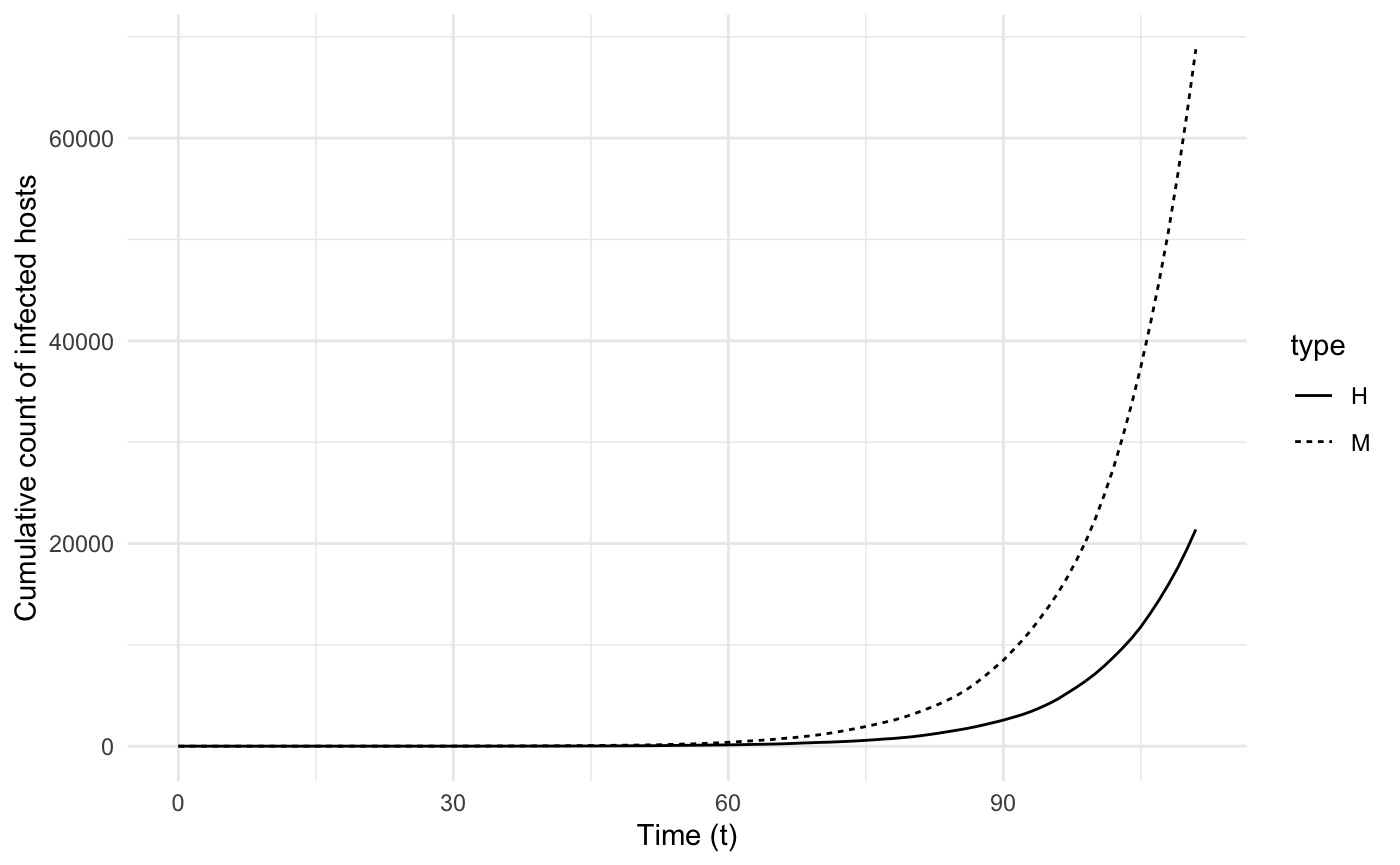
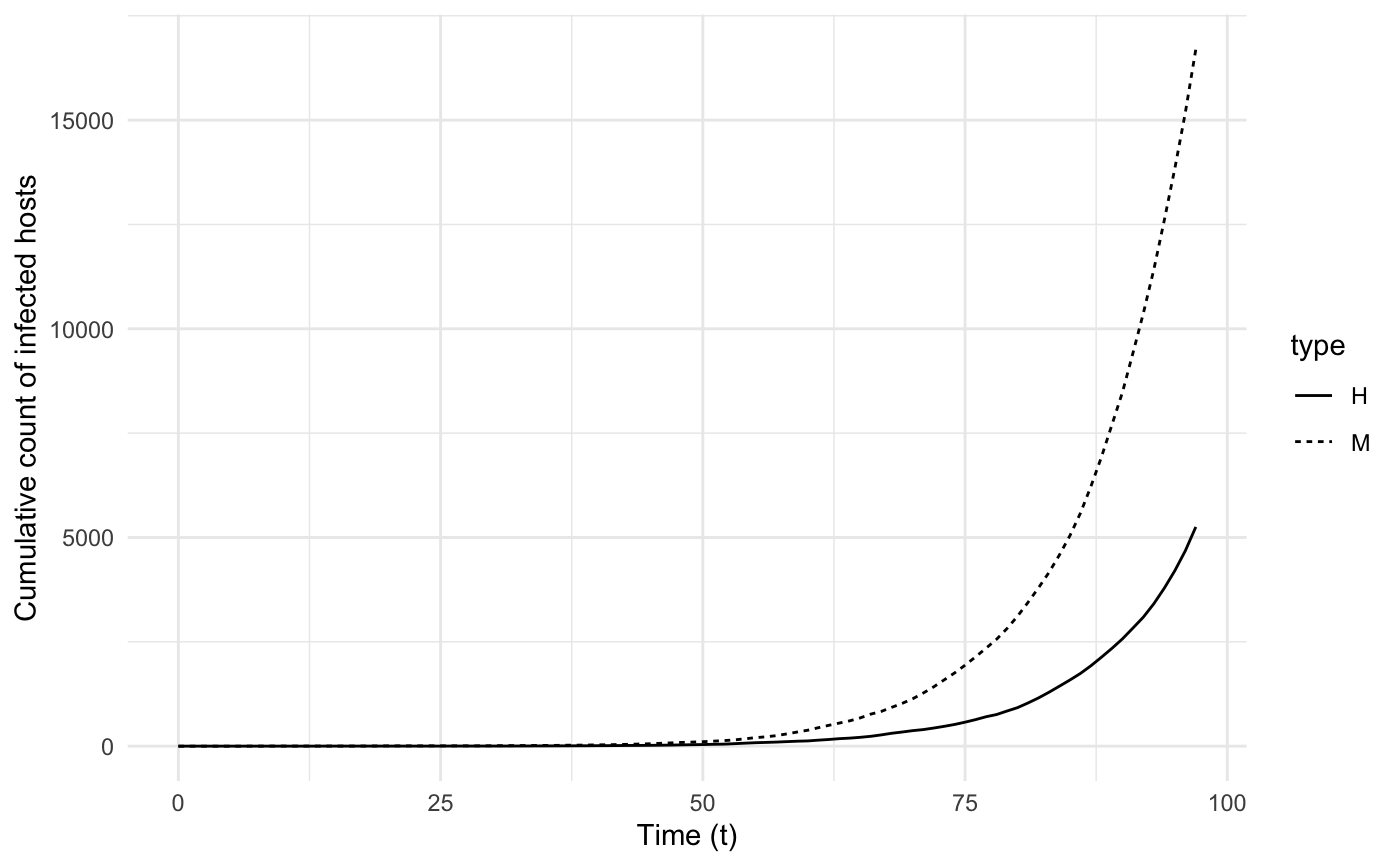
update dengue example

diff --git a/docs/articles/examples/dengue.html b/docs/articles/examples/dengue.html
@@ -178,7 +178,7 @@
       <h1>Spread of a dengue-like virus in a discrete space</h1>
                         <h4 class="author">Sebastian Lequime</h4>
             
-            <h4 class="date">2019-09-18</h4>
+            <h4 class="date">2019-09-19</h4>
       
       <small class="dont-index">Source: <a href="https://github.com/slequime/nosoi/blob/master/vignettes/examples/dengue.Rmd"><code>vignettes/examples/dengue.Rmd</code></a></small>
       <div class="hidden name"><code>dengue.Rmd</code></div>
@@ -345,35 +345,37 @@
 <div class="sourceCode" id="cb6"><pre class="sourceCode r"><code class="sourceCode r"><a class="sourceLine" id="cb6-1" data-line-number="1">airports &lt;-<span class="st"> </span><span class="kw">read_csv</span>(<span class="st">"~/Dropbox/C-Leuven Projects/Nosoi/Nosoi-Rpackage/Dengue Data/airports.dat"</span>, <span class="dt">col_names =</span> <span class="ot">FALSE</span>)</a>
 <a class="sourceLine" id="cb6-2" data-line-number="2"><span class="kw"><a href="https://rdrr.io/r/base/colnames.html">colnames</a></span>(airports)=<span class="kw"><a href="https://rdrr.io/r/base/c.html">c</a></span>(<span class="st">"AirportID"</span>,<span class="st">"Name"</span>, <span class="st">"City"</span>, <span class="st">"Country"</span>, <span class="st">"IATA"</span>, <span class="st">"ICAO"</span>, <span class="st">"Latitude"</span>, <span class="st">"Longitude"</span>, <span class="st">"Altitude"</span>, <span class="st">"Timezone"</span>,    <span class="st">"DST"</span>, <span class="st">"Tz"</span>, <span class="st">"Type"</span>, <span class="st">"Source"</span>)</a>
 <a class="sourceLine" id="cb6-3" data-line-number="3"></a>
-<a class="sourceLine" id="cb6-4" data-line-number="4"><span class="co"># AirportID: Unique OpenFlights identifier for this airport.</span></a>
-<a class="sourceLine" id="cb6-5" data-line-number="5"><span class="co"># Name: Name of airport. May or may not contain the City name.</span></a>
-<a class="sourceLine" id="cb6-6" data-line-number="6"><span class="co"># City: Main city served by airport. May be spelled differently from Name.</span></a>
-<a class="sourceLine" id="cb6-7" data-line-number="7"><span class="co"># Country: Country or territory where airport is located. See countries.dat to cross-reference to ISO 3166-1 codes.</span></a>
-<a class="sourceLine" id="cb6-8" data-line-number="8"><span class="co"># IATA: 3-letter IATA code. Null if not assigned/unknown.</span></a>
-<a class="sourceLine" id="cb6-9" data-line-number="9"><span class="co"># ICAO: 4-letter ICAO code. Null if not assigned.</span></a>
-<a class="sourceLine" id="cb6-10" data-line-number="10"><span class="co"># Latitude: Decimal degrees, usually to six significant digits. Negative is South, positive is North.</span></a>
-<a class="sourceLine" id="cb6-11" data-line-number="11"><span class="co"># Longitude: Decimal degrees, usually to six significant digits. Negative is West, positive is East.</span></a>
-<a class="sourceLine" id="cb6-12" data-line-number="12"><span class="co"># Altitude: In feet.</span></a>
-<a class="sourceLine" id="cb6-13" data-line-number="13"><span class="co"># Timezone: Hours offset from UTC. Fractional hours are expressed as decimals, eg. India is 5.5.</span></a>
-<a class="sourceLine" id="cb6-14" data-line-number="14"><span class="co"># DST:  Daylight savings time. One of E (Europe), A (US/Canada), S (South America), O (Australia), Z (New Zealand), N (None) or U (Unknown). See also: Help: Time</span></a>
-<a class="sourceLine" id="cb6-15" data-line-number="15"><span class="co"># Tz database time zone:    Timezone in "tz" (Olson) format, eg. "America/Los_Angeles".</span></a>
-<a class="sourceLine" id="cb6-16" data-line-number="16"><span class="co"># Type:     Type of the airport. Value "airport" for air terminals, "station" for train stations, "port" for ferry terminals and "unknown" if not known. In airports.csv, only type=airport is included.</span></a>
-<a class="sourceLine" id="cb6-17" data-line-number="17"></a>
-<a class="sourceLine" id="cb6-18" data-line-number="18"><span class="co">#This dataframe contains the 3-letter code for each country</span></a>
-<a class="sourceLine" id="cb6-19" data-line-number="19">country_code &lt;-<span class="st"> </span><span class="kw">read_delim</span>(<span class="st">"country_code.csv"</span>, <span class="st">";"</span>, <span class="dt">escape_double =</span> <span class="ot">FALSE</span>, <span class="dt">trim_ws =</span> <span class="ot">TRUE</span>)</a>
-<a class="sourceLine" id="cb6-20" data-line-number="20"></a>
-<a class="sourceLine" id="cb6-21" data-line-number="21"><span class="co">#Merging airports and country_code dataframe</span></a>
-<a class="sourceLine" id="cb6-22" data-line-number="22">airports2 =<span class="st"> </span>dplyr<span class="op">::</span><span class="kw"><a href="https://dplyr.tidyverse.org/reference/join.html">left_join</a></span>(airports, country_code)</a>
-<a class="sourceLine" id="cb6-23" data-line-number="23"></a>
-<a class="sourceLine" id="cb6-24" data-line-number="24"><span class="co">#subsetting airports from the study site</span></a>
-<a class="sourceLine" id="cb6-25" data-line-number="25">airports2.sub  =<span class="kw"><a href="https://rdrr.io/pkg/raster/man/subset.html">subset</a></span>(airports2, Code3 <span class="op">%in%</span><span class="st"> </span>SE.Asia <span class="op">&amp;</span><span class="st"> </span>(Latitude <span class="op">&gt;=</span><span class="st"> </span><span class="dv">5</span> <span class="op">&amp;</span><span class="st"> </span>Latitude <span class="op">&lt;=</span><span class="st"> </span><span class="dv">30</span>) <span class="op">&amp;</span><span class="st"> </span>(Longitude <span class="op">&gt;=</span><span class="st"> </span><span class="dv">90</span> <span class="op">&amp;</span><span class="st"> </span>Longitude <span class="op">&lt;=</span><span class="st"> </span><span class="dv">125</span>))</a>
-<a class="sourceLine" id="cb6-26" data-line-number="26"></a>
-<a class="sourceLine" id="cb6-27" data-line-number="27"><span class="co">#worldmap</span></a>
-<a class="sourceLine" id="cb6-28" data-line-number="28">worldmap &lt;-<span class="st"> </span>ggplot2<span class="op">::</span><span class="kw"><a href="https://ggplot2.tidyverse.org/reference/borders.html">borders</a></span>(<span class="st">"world"</span>, <span class="dt">colour=</span><span class="st">"gray50"</span>, <span class="dt">fill=</span><span class="st">"#efede1"</span>)</a>
-<a class="sourceLine" id="cb6-29" data-line-number="29"></a>
-<a class="sourceLine" id="cb6-30" data-line-number="30"><span class="kw">ggplot</span>() <span class="op">+</span><span class="st"> </span>worldmap <span class="op">+</span><span class="st"> </span><span class="kw">coord_cartesian</span>(<span class="dt">xlim=</span><span class="kw"><a href="https://rdrr.io/r/base/c.html">c</a></span>(<span class="dv">90</span>, <span class="dv">125</span>),<span class="dt">ylim=</span><span class="kw"><a href="https://rdrr.io/r/base/c.html">c</a></span>(<span class="dv">5</span>, <span class="dv">30</span>)) <span class="op">+</span><span class="st"> </span></a>
-<a class="sourceLine" id="cb6-31" data-line-number="31"><span class="st">  </span><span class="kw">geom_point</span>(<span class="dt">data=</span>airports2.sub, <span class="kw">aes</span>(<span class="dt">x=</span>Longitude, <span class="dt">y=</span>Latitude, <span class="dt">color=</span>Country)) <span class="op">+</span><span class="st"> </span><span class="kw">scale_color_discrete</span>(<span class="dt">guide=</span><span class="ot">FALSE</span>) <span class="op">+</span><span class="st"> </span></a>
-<a class="sourceLine" id="cb6-32" data-line-number="32"><span class="st">  </span><span class="kw">theme_minimal</span>() <span class="op">+</span><span class="st"> </span><span class="kw">labs</span>(<span class="dt">x=</span><span class="st">"longitude"</span>,<span class="dt">y=</span><span class="st">"latitude"</span>)</a></code></pre></div>
+<a class="sourceLine" id="cb6-4" data-line-number="4">SE.Asia &lt;-<span class="st"> </span><span class="kw"><a href="https://rdrr.io/r/base/c.html">c</a></span>(<span class="st">"CHN"</span>,<span class="st">"KHM"</span>,<span class="st">"LAO"</span>,<span class="st">"THA"</span>,<span class="st">"VNM"</span>)</a>
+<a class="sourceLine" id="cb6-5" data-line-number="5"></a>
+<a class="sourceLine" id="cb6-6" data-line-number="6"><span class="co"># AirportID: Unique OpenFlights identifier for this airport.</span></a>
+<a class="sourceLine" id="cb6-7" data-line-number="7"><span class="co"># Name: Name of airport. May or may not contain the City name.</span></a>
+<a class="sourceLine" id="cb6-8" data-line-number="8"><span class="co"># City: Main city served by airport. May be spelled differently from Name.</span></a>
+<a class="sourceLine" id="cb6-9" data-line-number="9"><span class="co"># Country: Country or territory where airport is located. See countries.dat to cross-reference to ISO 3166-1 codes.</span></a>
+<a class="sourceLine" id="cb6-10" data-line-number="10"><span class="co"># IATA: 3-letter IATA code. Null if not assigned/unknown.</span></a>
+<a class="sourceLine" id="cb6-11" data-line-number="11"><span class="co"># ICAO: 4-letter ICAO code. Null if not assigned.</span></a>
+<a class="sourceLine" id="cb6-12" data-line-number="12"><span class="co"># Latitude: Decimal degrees, usually to six significant digits. Negative is South, positive is North.</span></a>
+<a class="sourceLine" id="cb6-13" data-line-number="13"><span class="co"># Longitude: Decimal degrees, usually to six significant digits. Negative is West, positive is East.</span></a>
+<a class="sourceLine" id="cb6-14" data-line-number="14"><span class="co"># Altitude: In feet.</span></a>
+<a class="sourceLine" id="cb6-15" data-line-number="15"><span class="co"># Timezone: Hours offset from UTC. Fractional hours are expressed as decimals, eg. India is 5.5.</span></a>
+<a class="sourceLine" id="cb6-16" data-line-number="16"><span class="co"># DST:  Daylight savings time. One of E (Europe), A (US/Canada), S (South America), O (Australia), Z (New Zealand), N (None) or U (Unknown). See also: Help: Time</span></a>
+<a class="sourceLine" id="cb6-17" data-line-number="17"><span class="co"># Tz database time zone:    Timezone in "tz" (Olson) format, eg. "America/Los_Angeles".</span></a>
+<a class="sourceLine" id="cb6-18" data-line-number="18"><span class="co"># Type:     Type of the airport. Value "airport" for air terminals, "station" for train stations, "port" for ferry terminals and "unknown" if not known. In airports.csv, only type=airport is included.</span></a>
+<a class="sourceLine" id="cb6-19" data-line-number="19"></a>
+<a class="sourceLine" id="cb6-20" data-line-number="20"><span class="co">#This dataframe contains the 3-letter code for each country</span></a>
+<a class="sourceLine" id="cb6-21" data-line-number="21">country_code &lt;-<span class="st"> </span><span class="kw">read_delim</span>(<span class="st">"country_code.csv"</span>, <span class="st">";"</span>, <span class="dt">escape_double =</span> <span class="ot">FALSE</span>, <span class="dt">trim_ws =</span> <span class="ot">TRUE</span>)</a>
+<a class="sourceLine" id="cb6-22" data-line-number="22"></a>
+<a class="sourceLine" id="cb6-23" data-line-number="23"><span class="co">#Merging airports and country_code dataframe</span></a>
+<a class="sourceLine" id="cb6-24" data-line-number="24">airports2 =<span class="st"> </span>dplyr<span class="op">::</span><span class="kw"><a href="https://dplyr.tidyverse.org/reference/join.html">left_join</a></span>(airports, country_code)</a>
+<a class="sourceLine" id="cb6-25" data-line-number="25"></a>
+<a class="sourceLine" id="cb6-26" data-line-number="26"><span class="co">#subsetting airports from the study site</span></a>
+<a class="sourceLine" id="cb6-27" data-line-number="27">airports2.sub  =<span class="kw"><a href="https://rdrr.io/pkg/raster/man/subset.html">subset</a></span>(airports2, Code3 <span class="op">%in%</span><span class="st"> </span>SE.Asia <span class="op">&amp;</span><span class="st"> </span>(Latitude <span class="op">&gt;=</span><span class="st"> </span><span class="dv">5</span> <span class="op">&amp;</span><span class="st"> </span>Latitude <span class="op">&lt;=</span><span class="st"> </span><span class="dv">30</span>) <span class="op">&amp;</span><span class="st"> </span>(Longitude <span class="op">&gt;=</span><span class="st"> </span><span class="dv">90</span> <span class="op">&amp;</span><span class="st"> </span>Longitude <span class="op">&lt;=</span><span class="st"> </span><span class="dv">125</span>))</a>
+<a class="sourceLine" id="cb6-28" data-line-number="28"></a>
+<a class="sourceLine" id="cb6-29" data-line-number="29"><span class="co">#worldmap</span></a>
+<a class="sourceLine" id="cb6-30" data-line-number="30">worldmap &lt;-<span class="st"> </span>ggplot2<span class="op">::</span><span class="kw"><a href="https://ggplot2.tidyverse.org/reference/borders.html">borders</a></span>(<span class="st">"world"</span>, <span class="dt">colour=</span><span class="st">"gray50"</span>, <span class="dt">fill=</span><span class="st">"#efede1"</span>)</a>
+<a class="sourceLine" id="cb6-31" data-line-number="31"></a>
+<a class="sourceLine" id="cb6-32" data-line-number="32"><span class="kw">ggplot</span>() <span class="op">+</span><span class="st"> </span>worldmap <span class="op">+</span><span class="st"> </span><span class="kw">coord_cartesian</span>(<span class="dt">xlim=</span><span class="kw"><a href="https://rdrr.io/r/base/c.html">c</a></span>(<span class="dv">90</span>, <span class="dv">125</span>),<span class="dt">ylim=</span><span class="kw"><a href="https://rdrr.io/r/base/c.html">c</a></span>(<span class="dv">5</span>, <span class="dv">30</span>)) <span class="op">+</span><span class="st"> </span></a>
+<a class="sourceLine" id="cb6-33" data-line-number="33"><span class="st">  </span><span class="kw">geom_point</span>(<span class="dt">data=</span>airports2.sub, <span class="kw">aes</span>(<span class="dt">x=</span>Longitude, <span class="dt">y=</span>Latitude, <span class="dt">color=</span>Country)) <span class="op">+</span><span class="st"> </span><span class="kw">scale_color_discrete</span>(<span class="dt">guide=</span><span class="ot">FALSE</span>) <span class="op">+</span><span class="st"> </span></a>
+<a class="sourceLine" id="cb6-34" data-line-number="34"><span class="st">  </span><span class="kw">theme_minimal</span>() <span class="op">+</span><span class="st"> </span><span class="kw">labs</span>(<span class="dt">x=</span><span class="st">"longitude"</span>,<span class="dt">y=</span><span class="st">"latitude"</span>)</a></code></pre></div>
 <p><img src="dengue_files/figure-html/air1-1.png" width="700"></p>
 <p>Then we extract the routes that link these airports together:</p>
 <div class="sourceCode" id="cb7"><pre class="sourceCode r"><code class="sourceCode r"><a class="sourceLine" id="cb7-1" data-line-number="1"><span class="kw"><a href="https://rdrr.io/r/base/library.html">library</a></span>(tidyverse)</a>
@@ -668,7 +670,7 @@
 <a class="sourceLine" id="cb25-81" data-line-number="81"><span class="kw"><a href="https://rdrr.io/r/base/Random.html">set.seed</a></span>(<span class="dv">60</span>)</a>
 <a class="sourceLine" id="cb25-82" data-line-number="82">test.nosoiA &lt;-<span class="st"> </span><span class="kw"><a href="../../reference/nosoiSim.html">nosoiSim</a></span>(<span class="dt">type=</span><span class="st">"dual"</span>, <span class="dt">popStructure=</span><span class="st">"discrete"</span>,</a>
 <a class="sourceLine" id="cb25-83" data-line-number="83">                        <span class="dt">length.sim=</span><span class="dv">365</span>, </a>
-<a class="sourceLine" id="cb25-84" data-line-number="84">                        <span class="dt">max.infected.A=</span><span class="dv">20000</span>,</a>
+<a class="sourceLine" id="cb25-84" data-line-number="84">                        <span class="dt">max.infected.A=</span><span class="dv">5000</span>,</a>
 <a class="sourceLine" id="cb25-85" data-line-number="85">                        <span class="dt">max.infected.B=</span><span class="dv">200000</span>,</a>
 <a class="sourceLine" id="cb25-86" data-line-number="86">                        <span class="dt">init.individuals.A=</span><span class="dv">1</span>,</a>
 <a class="sourceLine" id="cb25-87" data-line-number="87">                        <span class="dt">init.individuals.B=</span><span class="dv">0</span>,</a>
@@ -726,8 +728,8 @@
 ## Initializing ...</code></pre>
 <pre><code>##  running ...</code></pre>
 <pre><code>## done. 
-## The simulation has run for 110 units of time and a total of 21383 (A) and 68774 (B) hosts have been infected.</code></pre>
-<p>The simulation has run for 110 and has infected 2.138310^{4} humans and 6.877410^{4} mosquitoes. The simulation was stoped because it reached the infected human cap <code>max.infected.A</code>.</p>
+## The simulation has run for 96 units of time and a total of 5253 (A) and 16699 (B) hosts have been infected.</code></pre>
+<p>The simulation has run for 96 and has infected 5253 humans and 1.669910^{4} mosquitoes. The simulation was stoped because it reached the infected human cap <code>max.infected.A</code>.</p>
 </div>
 <div id="analyzing-the-results" class="section level1">
 <h1 class="hasAnchor">
@@ -793,7 +795,7 @@
 <a href="#epidemiological-analysis" class="anchor"></a>Epidemiological analysis</h2>
 <p>As interesting as the visualization might be, we can also explore a bit the epidemic parameters, for example the “real” <span class="math inline">\(R_0\)</span>, defined as the average number of cases one case generates, often estimated in epidemiological studies. For this we can use the following code:</p>
 <div class="sourceCode" id="cb30"><pre class="sourceCode r"><code class="sourceCode r"><a class="sourceLine" id="cb30-1" data-line-number="1">R0.sim &lt;-<span class="st"> </span><span class="kw"><a href="../../reference/getR0.html">getR0</a></span>(test.nosoiA)</a></code></pre></div>
-<p>Mean value for <span class="math inline">\(R_0\)</span> is 3.31, which is coherent with <span class="math inline">\(R_0\)</span> estimates for dengue (see for example <a href="https://apps.who.int/iris/handle/10665/170261">Nishiura 2006 <em>Dengue Bulletin</em></a>. Its distribution shows that most of the human hosts are responsible for the infection of a least one other human hosts:</p>
+<p>Mean value for <span class="math inline">\(R_0\)</span> is 3.23, which is coherent with <span class="math inline">\(R_0\)</span> estimates for dengue (see for example <a href="https://apps.who.int/iris/handle/10665/170261">Nishiura 2006 <em>Dengue Bulletin</em></a>. Its distribution shows that most of the human hosts are responsible for the infection of a least one other human hosts:</p>
 <p><img src="dengue_files/figure-html/generalEpi2-1.png" width="700"></p>
 <p>On the mosquito side, mean value for <span class="math inline">\(R_0\)</span> is 0.27 and the distribution shows that most of the mosquitoes, except a few, are actually dead-end hosts: <img src="dengue_files/figure-html/generalEpi3-1.png" width="700"></p>
 <p>The two following figures also give the epidemiological dynamics of the simulation:</p>
@@ -803,7 +805,7 @@
 <a class="sourceLine" id="cb31-4" data-line-number="4"></a>
 <a class="sourceLine" id="cb31-5" data-line-number="5"><span class="kw"><a href="https://ggplot2.tidyverse.org/reference/ggplot.html">ggplot</a></span>(<span class="dt">data=</span>cumulative.table, <span class="kw"><a href="https://ggplot2.tidyverse.org/reference/aes.html">aes</a></span>(<span class="dt">x=</span>t, <span class="dt">y=</span>Count,<span class="dt">linetype=</span>type)) <span class="op">+</span><span class="st"> </span><span class="kw"><a href="https://ggplot2.tidyverse.org/reference/geom_path.html">geom_line</a></span>() <span class="op">+</span><span class="st"> </span><span class="kw"><a href="https://ggplot2.tidyverse.org/reference/ggtheme.html">theme_minimal</a></span>() <span class="op">+</span><span class="st"> </span><span class="kw"><a href="https://ggplot2.tidyverse.org/reference/labs.html">labs</a></span>(<span class="dt">x=</span><span class="st">"Time (t)"</span>,<span class="dt">y=</span><span class="st">"Cumulative count of infected hosts"</span>)</a></code></pre></div>
 <p><img src="dengue_files/figure-html/figureDynamics1-1.png" width="700"></p>
-<div class="sourceCode" id="cb32"><pre class="sourceCode r"><code class="sourceCode r"><a class="sourceLine" id="cb32-1" data-line-number="1"><span class="kw"><a href="https://ggplot2.tidyverse.org/reference/ggplot.html">ggplot</a></span>(<span class="dt">data=</span>dynamics.table, <span class="kw"><a href="https://ggplot2.tidyverse.org/reference/aes.html">aes</a></span>(<span class="dt">x=</span>t, <span class="dt">y=</span>Count, <span class="dt">color=</span>state,<span class="dt">linetype=</span>type)) <span class="op">+</span><span class="st"> </span><span class="kw"><a href="https://ggplot2.tidyverse.org/reference/geom_path.html">geom_line</a></span>() <span class="op">+</span><span class="st"> </span><span class="kw"><a href="https://ggplot2.tidyverse.org/reference/ggtheme.html">theme_minimal</a></span>() <span class="op">+</span><span class="st"> </span><span class="kw"><a href="https://ggplot2.tidyverse.org/reference/labs.html">labs</a></span>(<span class="dt">x=</span><span class="st">"Time (t)"</span>,<span class="dt">y=</span><span class="st">"Number of active infected hosts"</span>)</a></code></pre></div>
+<div class="sourceCode" id="cb32"><pre class="sourceCode r"><code class="sourceCode r"><a class="sourceLine" id="cb32-1" data-line-number="1"><span class="kw"><a href="https://ggplot2.tidyverse.org/reference/ggplot.html">ggplot</a></span>(<span class="dt">data=</span>dynamics.table, <span class="kw"><a href="https://ggplot2.tidyverse.org/reference/aes.html">aes</a></span>(<span class="dt">x=</span>t, <span class="dt">y=</span><span class="kw"><a href="https://rdrr.io/r/base/Log.html">log10</a></span>(Count), <span class="dt">color=</span>state,<span class="dt">linetype=</span>type)) <span class="op">+</span><span class="st"> </span><span class="kw"><a href="https://ggplot2.tidyverse.org/reference/geom_path.html">geom_line</a></span>() <span class="op">+</span><span class="st"> </span><span class="kw"><a href="https://ggplot2.tidyverse.org/reference/ggtheme.html">theme_minimal</a></span>() <span class="op">+</span><span class="st"> </span><span class="kw"><a href="https://ggplot2.tidyverse.org/reference/labs.html">labs</a></span>(<span class="dt">x=</span><span class="st">"Time (t)"</span>,<span class="dt">y=</span><span class="st">"Number of active infected hosts</span><span class="ch">\n</span><span class="st">(log10 scale)"</span>)</a></code></pre></div>
 <p><img src="dengue_files/figure-html/figureDynamics2-1.png" width="700"></p>
 </div>
 <div id="transmission-chain" class="section level2">
@@ -812,27 +814,36 @@
 <p>The central transmission chain simulated by <code>nosoi</code> can also be visualized. For that, we generate the transmission tree as a phylogenetic tree-like object by using the <code>getTransmissionTree</code> function implemented in <code>nosoi</code>:</p>
 <div class="sourceCode" id="cb33"><pre class="sourceCode r"><code class="sourceCode r"><a class="sourceLine" id="cb33-1" data-line-number="1">test.nosoiA.tree &lt;-<span class="st"> </span><span class="kw"><a href="../../reference/getTransmissionTree.html">getTransmissionTree</a></span>(test.nosoiA)</a></code></pre></div>
 <p>This function gives you a <code>treedata</code> object that can be visualized as a phylogenetic-tree with the package :</p>
-<div class="sourceCode" id="cb34"><pre class="sourceCode r"><code class="sourceCode r"><a class="sourceLine" id="cb34-1" data-line-number="1"><span class="co">#Extracts data from the nosoiSim object:</span></a>
-<a class="sourceLine" id="cb34-2" data-line-number="2">test.table.hosts &lt;-<span class="st"> </span><span class="kw"><a href="../../reference/getTableHosts.html">getTableHosts</a></span>(test.nosoiA, <span class="dt">pop=</span><span class="st">"A"</span>)</a>
-<a class="sourceLine" id="cb34-3" data-line-number="3">test.nosoiA.tree &lt;-<span class="st"> </span><span class="kw"><a href="../../reference/getTransmissionTree.html">getTransmissionTree</a></span>(test.nosoiA, <span class="dt">pop=</span><span class="st">"A"</span>)</a>
-<a class="sourceLine" id="cb34-4" data-line-number="4"></a>
-<a class="sourceLine" id="cb34-5" data-line-number="5"><span class="co">#Sampling the names of individuals to be sampled:</span></a>
-<a class="sourceLine" id="cb34-6" data-line-number="6"><span class="kw"><a href="https://rdrr.io/r/base/Random.html">set.seed</a></span>(<span class="dv">5905950</span>)</a>
-<a class="sourceLine" id="cb34-7" data-line-number="7">sampled.hosts &lt;-<span class="st"> </span><span class="kw"><a href="https://rdrr.io/r/base/sample.html">sample</a></span>(<span class="kw"><a href="https://rdrr.io/pkg/raster/man/subset.html">subset</a></span>(test.table.hosts, active <span class="op">==</span><span class="st"> </span><span class="dv">0</span>)<span class="op">$</span>hosts.ID, <span class="dv">250</span>)</a>
-<a class="sourceLine" id="cb34-8" data-line-number="8"></a>
-<a class="sourceLine" id="cb34-9" data-line-number="9"><span class="co">#Subsampling:</span></a>
-<a class="sourceLine" id="cb34-10" data-line-number="10">test.nosoiA.tree.sampled.exiting &lt;-<span class="st"> </span><span class="kw"><a href="../../reference/sampleTransmissionTreeFromExiting.html">sampleTransmissionTreeFromExiting</a></span>(test.nosoiA.tree, sampled.hosts)</a></code></pre></div>
-<div class="sourceCode" id="cb35"><pre class="sourceCode r"><code class="sourceCode r"><a class="sourceLine" id="cb35-1" data-line-number="1"><span class="kw"><a href="https://rdrr.io/r/base/library.html">library</a></span>(ggtree)</a>
-<a class="sourceLine" id="cb35-2" data-line-number="2"><span class="kw"><a href="https://rdrr.io/pkg/ggtree/man/ggtree.html">ggtree</a></span>(test.nosoiA.tree, <span class="dt">color =</span> <span class="st">"gray30"</span>) <span class="op">+</span><span class="st"> </span><span class="kw"><a href="https://rdrr.io/pkg/ggtree/man/geom_nodepoint.html">geom_nodepoint</a></span>(<span class="dt">color =</span> <span class="st">"gray30"</span>) <span class="op">+</span><span class="st"> </span><span class="kw"><a href="https://rdrr.io/pkg/ggtree/man/geom_tippoint.html">geom_tippoint</a></span>(<span class="dt">color =</span> <span class="st">"gray30"</span>) <span class="op">+</span><span class="st"> </span><span class="co"># geom_tiplab(aes(label=host)) + </span></a>
-<a class="sourceLine" id="cb35-3" data-line-number="3"><span class="st">    </span><span class="kw"><a href="https://rdrr.io/pkg/ggtree/man/theme_tree2.html">theme_tree2</a></span>() <span class="op">+</span><span class="st"> </span><span class="kw"><a href="https://ggplot2.tidyverse.org/reference/labs.html">xlab</a></span>(<span class="st">"Time (t)"</span>) <span class="op">+</span><span class="st"> </span><span class="kw"><a href="https://rdrr.io/pkg/ggtree/man/reexports.html">theme</a></span>(<span class="dt">legend.position =</span> <span class="kw"><a href="https://rdrr.io/r/base/c.html">c</a></span>(<span class="dv">0</span>,<span class="fl">0.8</span>), </a>
-<a class="sourceLine" id="cb35-4" data-line-number="4">        <span class="dt">legend.title =</span> <span class="kw"><a href="https://ggplot2.tidyverse.org/reference/element.html">element_blank</a></span>(),</a>
-<a class="sourceLine" id="cb35-5" data-line-number="5">        <span class="dt">legend.key =</span> <span class="kw"><a href="https://ggplot2.tidyverse.org/reference/element.html">element_blank</a></span>())</a></code></pre></div>
+<div class="sourceCode" id="cb34"><pre class="sourceCode r"><code class="sourceCode r"><a class="sourceLine" id="cb34-1" data-line-number="1"><span class="kw"><a href="https://rdrr.io/r/base/library.html">library</a></span>(ggtree)</a>
+<a class="sourceLine" id="cb34-2" data-line-number="2"><span class="kw"><a href="https://rdrr.io/pkg/ggtree/man/ggtree.html">ggtree</a></span>(test.nosoiA.tree, <span class="dt">color =</span> <span class="st">"gray30"</span>) <span class="op">+</span><span class="st"> </span><span class="kw"><a href="https://rdrr.io/pkg/ggtree/man/geom_tippoint.html">geom_tippoint</a></span>(<span class="dt">color =</span> <span class="st">"gray30"</span>) <span class="op">+</span><span class="st"> </span><span class="co"># geom_tiplab(aes(label=host)) + </span></a>
+<a class="sourceLine" id="cb34-3" data-line-number="3"><span class="st">    </span><span class="kw"><a href="https://rdrr.io/pkg/ggtree/man/theme_tree2.html">theme_tree2</a></span>() <span class="op">+</span><span class="st"> </span><span class="kw"><a href="https://ggplot2.tidyverse.org/reference/labs.html">xlab</a></span>(<span class="st">"Time (t)"</span>) <span class="op">+</span><span class="st"> </span><span class="kw"><a href="https://rdrr.io/pkg/ggtree/man/reexports.html">theme</a></span>(<span class="dt">legend.position =</span> <span class="kw"><a href="https://rdrr.io/r/base/c.html">c</a></span>(<span class="dv">0</span>,<span class="fl">0.8</span>), </a>
+<a class="sourceLine" id="cb34-4" data-line-number="4">        <span class="dt">legend.title =</span> <span class="kw"><a href="https://ggplot2.tidyverse.org/reference/element.html">element_blank</a></span>(),</a>
+<a class="sourceLine" id="cb34-5" data-line-number="5">        <span class="dt">legend.key =</span> <span class="kw"><a href="https://ggplot2.tidyverse.org/reference/element.html">element_blank</a></span>())</a></code></pre></div>
+<p><img src="dengue_files/figure-html/treeC-1.png" width="700"></p>
+<p>This tree is a bit messy, considering the number of transmission events and the overall size of this epidemic. We can also sub-sample it randomly. We will select here 150 individuals sampled at the time of their exit (either death or recovery):</p>
+<div class="sourceCode" id="cb35"><pre class="sourceCode r"><code class="sourceCode r"><a class="sourceLine" id="cb35-1" data-line-number="1"><span class="co">#Extracts data from the nosoiSim object:</span></a>
+<a class="sourceLine" id="cb35-2" data-line-number="2">test.table.hosts &lt;-<span class="st"> </span><span class="kw"><a href="../../reference/getTableHosts.html">getTableHosts</a></span>(test.nosoiA, <span class="dt">pop=</span><span class="st">"A"</span>)</a>
+<a class="sourceLine" id="cb35-3" data-line-number="3"><span class="co"># test.nosoiA.tree &lt;- getTransmissionTree(test.nosoiA)</span></a>
+<a class="sourceLine" id="cb35-4" data-line-number="4"></a>
+<a class="sourceLine" id="cb35-5" data-line-number="5"><span class="co">#Sampling the names of individuals to be sampled:</span></a>
+<a class="sourceLine" id="cb35-6" data-line-number="6"><span class="kw"><a href="https://rdrr.io/r/base/Random.html">set.seed</a></span>(<span class="dv">5905950</span>)</a>
+<a class="sourceLine" id="cb35-7" data-line-number="7">sampled.hosts &lt;-<span class="st"> </span><span class="kw"><a href="https://rdrr.io/r/base/sample.html">sample</a></span>(<span class="kw"><a href="https://rdrr.io/pkg/raster/man/subset.html">subset</a></span>(test.table.hosts, active <span class="op">==</span><span class="st"> </span><span class="dv">0</span>)<span class="op">$</span>hosts.ID, <span class="dv">150</span>)</a>
+<a class="sourceLine" id="cb35-8" data-line-number="8"></a>
+<a class="sourceLine" id="cb35-9" data-line-number="9"><span class="co">#Subsampling:</span></a>
+<a class="sourceLine" id="cb35-10" data-line-number="10">test.nosoiA.tree.sampled.exiting &lt;-<span class="st"> </span><span class="kw"><a href="../../reference/sampleTransmissionTreeFromExiting.html">sampleTransmissionTreeFromExiting</a></span>(test.nosoiA.tree, sampled.hosts)</a></code></pre></div>
+<p>This new tree can be also plotted as before, with colors representing the state (i.e. country) of each tip and node:</p>
+<div class="sourceCode" id="cb36"><pre class="sourceCode r"><code class="sourceCode r"><a class="sourceLine" id="cb36-1" data-line-number="1"><span class="kw"><a href="https://rdrr.io/r/base/library.html">library</a></span>(ggtree)</a>
+<a class="sourceLine" id="cb36-2" data-line-number="2"><span class="kw"><a href="https://rdrr.io/pkg/ggtree/man/ggtree.html">ggtree</a></span>(test.nosoiA.tree.sampled.exiting, <span class="dt">color =</span> <span class="st">"gray30"</span>) <span class="op">+</span><span class="st"> </span><span class="kw"><a href="https://rdrr.io/pkg/ggtree/man/geom_nodepoint.html">geom_nodepoint</a></span>(<span class="kw"><a href="https://rdrr.io/pkg/ggtree/man/reexports.html">aes</a></span>(<span class="dt">color=</span>state)) <span class="op">+</span><span class="st"> </span><span class="kw"><a href="https://rdrr.io/pkg/ggtree/man/geom_tippoint.html">geom_tippoint</a></span>(<span class="kw"><a href="https://rdrr.io/pkg/ggtree/man/reexports.html">aes</a></span>(<span class="dt">color=</span>state)) <span class="op">+</span><span class="st"> </span><span class="co"># geom_tiplab(aes(label=host)) + </span></a>
+<a class="sourceLine" id="cb36-3" data-line-number="3"><span class="st">    </span><span class="kw"><a href="https://rdrr.io/pkg/ggtree/man/theme_tree2.html">theme_tree2</a></span>() <span class="op">+</span><span class="st"> </span><span class="kw"><a href="https://ggplot2.tidyverse.org/reference/labs.html">xlab</a></span>(<span class="st">"Time (t)"</span>) <span class="op">+</span><span class="st"> </span><span class="kw"><a href="https://rdrr.io/pkg/ggtree/man/reexports.html">theme</a></span>(<span class="dt">legend.position =</span> <span class="kw"><a href="https://rdrr.io/r/base/c.html">c</a></span>(<span class="fl">0.05</span>,<span class="fl">0.8</span>), </a>
+<a class="sourceLine" id="cb36-4" data-line-number="4">        <span class="dt">legend.title =</span> <span class="kw"><a href="https://ggplot2.tidyverse.org/reference/element.html">element_blank</a></span>(),</a>
+<a class="sourceLine" id="cb36-5" data-line-number="5">        <span class="dt">legend.key =</span> <span class="kw"><a href="https://ggplot2.tidyverse.org/reference/element.html">element_blank</a></span>())</a></code></pre></div>
+<p><img src="dengue_files/figure-html/treeC2-1.png" width="700"></p>
 </div>
 <div id="other-use" class="section level2">
 <h2 class="hasAnchor">
 <a href="#other-use" class="anchor"></a>Other use</h2>
 <p>External software could be used to explore more into details the dynamic of this epidemic and transmission chain. The <code>write.beast</code> function of the <code>treeio</code> package allows for an easy export of the transmission chain as a phylogenetic-like tree, in a similar format as <a href="https://beast.community/">BEAST</a> trees.</p>
-<div class="sourceCode" id="cb36"><pre class="sourceCode r"><code class="sourceCode r"><a class="sourceLine" id="cb36-1" data-line-number="1">treeio<span class="op">::</span><span class="kw"><a href="https://rdrr.io/pkg/treeio/man/write.beast.html">write.beast</a></span>(test.nosoiA.tree, <span class="dt">file =</span> <span class="st">"test.tre"</span>, <span class="dt">translate =</span> <span class="ot">TRUE</span>, <span class="dt">tree.name =</span> <span class="st">"UNTITLED"</span>)</a></code></pre></div>
+<div class="sourceCode" id="cb37"><pre class="sourceCode r"><code class="sourceCode r"><a class="sourceLine" id="cb37-1" data-line-number="1">treeio<span class="op">::</span><span class="kw"><a href="https://rdrr.io/pkg/treeio/man/write.beast.html">write.beast</a></span>(test.nosoiA.tree, <span class="dt">file =</span> <span class="st">"test.tre"</span>, <span class="dt">translate =</span> <span class="ot">TRUE</span>, <span class="dt">tree.name =</span> <span class="st">"UNTITLED"</span>)</a></code></pre></div>
 </div>
 </div>
   </div>
